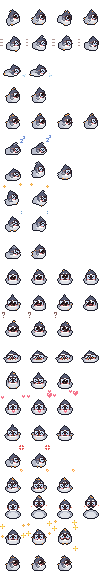
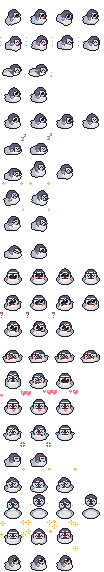
fix: CI-safe penguin tests (no scipy) and a smooth penguin back and round pixel head
- test_draw_penguin used scipy.ndimage, which CI does not install (tools/requirements.txt):
  the test job failed on CI while passing locally, which stopped the v0.5.7 release.
  Replaced with small numpy helpers and added a guard against importing scipy in tools.
- kinder penguin: no spiky down on the back (only the baby chick keeps it)
- pixel penguin: no head tuft — at pixel size it turned into a horn with an orange tip

Claude-Session: https://claude.ai/code/session_01QTKFeeLBUNBZhj6R6jJCZF

diff --git a/tools/test_draw_penguin.py b/tools/test_draw_penguin.py
@@ -183,6 +183,73 @@ def test_a_plump_round_penguin_with_a_big_round_belly(out, st, anim):
     assert belly >= (0.62 if anim == "sit_front" else 0.5), (st, anim, round(belly, 2))
 
 
+# ---- 작은 형태 연산 (numpy만 — CI에는 scipy가 없다, requirements.txt) ----
+_CROSS = ((0, 0), (1, 0), (-1, 0), (0, 1), (0, -1))
+_SQUARE = tuple((dy, dx) for dy in (-1, 0, 1) for dx in (-1, 0, 1))
+
+
+def _shift(m, dy, dx):
+    """m을 (dy, dx)만큼 민 것 (밖은 False)."""
+    out = np.zeros_like(m)
+    h, w = m.shape
+    out[max(dy, 0): h + min(dy, 0), max(dx, 0): w + min(dx, 0)] = m[max(-dy, 0): h + min(-dy, 0), max(-dx, 0): w + min(-dx, 0)]
+    return out
+
+
+def dilate(m, iterations=1, offsets=_CROSS):
+    """이진 팽창 (기본: 4-이웃 십자 — scipy binary_dilation 기본값과 같다)."""
+    m = np.asarray(m, dtype=bool)
+    for _ in range(iterations):
+        m = np.logical_or.reduce([_shift(m, dy, dx) for dy, dx in offsets])
+    return m
+
+
+def erode(m, offsets=_CROSS):
+    """이진 침식 (밖은 False로 본다)."""
+    m = np.asarray(m, dtype=bool)
+    return np.logical_and.reduce([_shift(m, -dy, -dx) for dy, dx in offsets])
+
+
+def open3(m):
+    """3×3 네모로 열기 (침식 뒤 팽창)."""
+    return dilate(erode(m, _SQUARE), 1, _SQUARE)
+
+
+def label(m):
+    """4-이웃으로 이어진 덩어리에 1..n 번호: (번호 배열, n)."""
+    m = np.asarray(m, dtype=bool)
+    lab = np.zeros(m.shape, dtype=int)
+    n = 0
+    for y, x in zip(*np.nonzero(m)):
+        if lab[y, x]:
+            continue
+        n += 1
+        lab[y, x] = n
+        stack = [(y, x)]
+        while stack:
+            cy, cx = stack.pop()
+            for dy, dx in _CROSS[1:]:
+                ny, nx = cy + dy, cx + dx
+                if 0 <= ny < m.shape[0] and 0 <= nx < m.shape[1] and m[ny, nx] and not lab[ny, nx]:
+                    lab[ny, nx] = n
+                    stack.append((ny, nx))
+    return lab, n
+
+
+def test_morphology_helpers():
+    m = np.zeros((7, 7), dtype=bool)
+    m[3, 3] = True
+    assert dilate(m).sum() == 5 and dilate(m, 2).sum() == 13
+    sq = np.zeros((7, 7), dtype=bool)
+    sq[1:4, 1:4] = True
+    sq[5, 5] = True
+    want = np.zeros((7, 7), dtype=bool)
+    want[1:4, 1:4] = True
+    assert (open3(sq) == want).all()
+    lab, n = label(sq)
+    assert n == 2 and lab[5, 5] != lab[1, 1]
+
+
 # ---- 동글 안경 + "안경 번쩍" ----
 PIXEL = ROOT / "ui" / "pets_pixel" / "penguin"
 
@@ -196,12 +263,11 @@ def pixel_frame(st, anim, i):
 
 def lens_and_rim(im):
     """(렌즈 색 칸 수, 렌즈 둘레(렌즈에서 3칸 안)의 짙은 테 칸 수, 렌즈 가운데 y / 실루엣 높이)."""
-    from scipy import ndimage
     a = np.asarray(im.convert("RGBA")).astype(int)
     op = a[..., 3] > 200
     lens = (np.abs(a[..., :3] - np.array(draw_penguin.LENS)).max(axis=2) <= 6) & op
     rim = (a[..., :3].mean(axis=2) < 120) & op
-    near = ndimage.binary_dilation(lens, iterations=3) & ~lens
+    near = dilate(lens, 3) & ~lens
     ys = np.nonzero(op.any(axis=1))[0]
     ly = np.nonzero(lens)[0].mean() if lens.any() else 999
     return int(lens.sum()), int((rim & near).sum()), (ly - ys[0]) / (ys[-1] - ys[0] + 1)
@@ -262,7 +328,6 @@ def _keyed(tabs, rgb):
 
 def test_round_lens_flash_keys_the_marked_lens_alpha(out):
     """동글 그림: 렌즈 둥근 자리(안의 눈까지)만 알파 254로 표시돼 있고, #lens-flash 필터는 알파 254만 골라 하얗게 덮는다."""
-    from scipy import ndimage
     f, tabs = _flash_tables("A", "lens-flash")
     assert f.index('operator="erode" radius="1"') < f.index('operator="dilate" radius="1"')
     assert [k for k, v in enumerate(tabs["A"]) if v == 1] == [draw_penguin.LENS_ALPHA] and len(tabs["A"]) == 256
@@ -275,7 +340,7 @@ def test_round_lens_flash_keys_the_marked_lens_alpha(out):
             im = frame(out, st, anim, 0)
             a = np.asarray(im.convert("RGBA")).astype(int)
             # 필터처럼 열림(1px)으로 외톨이 점을 지운다 (어른 256칸 시트를 128로 줄이면 외곽선에 254가 생길 수 있다)
-            key = ndimage.binary_opening(a[..., 3] == draw_penguin.LENS_ALPHA, structure=np.ones((3, 3)))
+            key = open3(a[..., 3] == draw_penguin.LENS_ALPHA)
             lens = (np.abs(a[..., :3] - np.array(draw_penguin.LENS)).max(axis=2) <= 6) & (a[..., 3] > 200)
             assert key.sum() >= lens.sum() + 10, (st, anim)  # 렌즈 색 칸 + 눈·반짝까지
             dark = key & (a[..., :3].mean(axis=2) < 90)
@@ -287,7 +352,7 @@ def test_round_lens_flash_keys_the_marked_lens_alpha(out):
         for anim in ("walk", "roll", "belly", "heart", "level_up", "sleep"):
             for c in range(2):
                 a = np.asarray(frame(out, st, anim, c).convert("RGBA")).astype(int)
-                lab, n = ndimage.label(a[..., 3] == draw_penguin.LENS_ALPHA)
+                lab, n = label(a[..., 3] == draw_penguin.LENS_ALPHA)
                 sizes = [int((lab == j).sum()) for j in range(1, n + 1)]
                 assert 1 <= n <= 3 and min(sizes) >= 20, (st, anim, c, sizes)
 
@@ -306,7 +371,6 @@ def test_lens_flash_filter_keys_only_the_lens_colour():
 @pytest.mark.parametrize("st", STAGES)
 def test_only_the_glasses_wear_the_lens_colour(out, st):
     """도트 필터가 렌즈 말고는 하얗게 만들지 않게: 필터 표에 걸리는 칸은 렌즈 덩어리 바로 곁뿐 (배·발·얼음 가루·외곽선 섞인 칸은 몇 점 이하)."""
-    from scipy import ndimage
     _, tabs = _flash_tables()
     keyed = {}
     for anim in ("sit_front", "walk", "roll", "belly", "eat", "sleep", "heart"):
@@ -319,7 +383,7 @@ def test_only_the_glasses_wear_the_lens_colour(out, st):
                 t = np.array(tabs["RGB"[ch]])
                 hit &= t[np.minimum(len(t) - 1, (rgb[..., ch] / 255 * len(t)).astype(int))] == 1
             core = (np.abs(rgb - np.array(draw_penguin.LENS)).max(axis=2) <= 6) & op
-            stray = hit & ~ndimage.binary_dilation(core, iterations=2)
+            stray = hit & ~dilate(core, 2)
             assert hit.sum() >= 3, (kind, st, anim)
             keyed[(kind, anim)] = int(stray.sum())
     assert max(keyed.values()) <= 4, keyed
@@ -367,3 +431,44 @@ console.log(JSON.stringify(added));
 """ % (fx, line.strip())
     out = subprocess.run(["node", "-e", script], capture_output=True, text=True, check=True).stdout
     assert json.loads(out) == ["glasses-flash", "glasses-flash", "glasses-flash"]
+
+
+# ---- 매끈한 등 (사용자: 2단계부터 등에 털인지 뿔인지 뾰족뾰족) ----
+
+def test_only_the_baby_keeps_the_spiky_down_on_its_body():
+    """2단계(유아) 등은 매끈하게 (사용자: 등에 털인지 뿔인지 뾰족뾰족) — 삐죽 솜털은 아기 병아리만."""
+    assert [lvl for lvl, st in draw_penguin.PG_STAGE.items() if st["fuzz"]] == [0]
+
+
+@pytest.mark.parametrize("st", STAGES)
+@pytest.mark.parametrize("anim", ["idle", "walk", "look", "sit_front"])  # 잠(sleep)은 머리 위에 z가 있다
+def test_pixel_head_has_no_horn(st, anim):
+    """도트 그림: 정수리 솜털 한 가닥이 작은 칸에선 뾰족한 뿔(끝에 주황 점)이 된다 → 도트엔 정수리 솜털이 없다.
+    머리 꼭대기 줄이 한두 칸짜리 뾰족 끝이 아니고, 위 1/5에 부리·발 주황이 없다."""
+    for i in (0, 1):
+        im = pixel_frame(st, anim, i)
+        a = alpha(im)
+        ys = np.nonzero(a.any(axis=1))[0]
+        # 뾰족 뿔이면 위 세 줄이 한두 칸씩 (동그란 머리는 위 셋째 줄이 넓다)
+        assert a[ys[0] + 2].sum() >= 5, (st, anim, i, [int(a[ys[0] + k].sum()) for k in range(3)])
+        band = im.crop((0, ys[0], im.width, ys[0] + (ys[-1] - ys[0]) // 5))
+        assert count_near(band, [draw_penguin.FEET], 30) == 0, (st, anim, i)
+
+
+def _back_bumps(im):
+    """옆모습 등 쪽(왼쪽) 윤곽: 줄마다 가장 왼쪽 칸 x. 위에서 아래로 그 x가 앞뒤 줄보다 2칸 넘게 튀어나온(작은) 곳 수 + 아래 1/4이 몸통보다 왼쪽으로 튀어나온 칸 수."""
+    a = alpha(im)
+    rows = [np.nonzero(r)[0].min() for r in a if r.any()]
+    n = len(rows)
+    spikes = sum(1 for i in range(1, n - 1) if rows[i] < min(rows[i - 1], rows[i + 1]) - 2)
+    mid = min(rows[int(n * 0.35): int(n * 0.75)])
+    tail = max(0, mid - min(rows[int(n * 0.75):]))
+    return spikes, tail
+
+
+@pytest.mark.parametrize("st", ["kinder", "child", "teenager", "adult"])
+@pytest.mark.parametrize("anim", ["idle", "walk", "look"])
+def test_the_back_is_smooth_without_spikes_or_a_pointy_tail(out, st, anim):
+    for i in (0, 1):
+        spikes, tail = _back_bumps(frame(out, st, anim, i))
+        assert spikes == 0 and tail <= 2, (st, anim, i, spikes, tail)

diff --git a/tools/draw_pixel.py b/tools/draw_pixel.py
@@ -121,7 +121,7 @@ _OWNERS = {  # 바꿔 끼우는 이름 → 원래 있는 모듈
     dd: ("melon_bubble_fx", "broc_bubble_fx", "grape_bubble_fx", "FOOD_BUBBLE", "wave_fx", "dust_fx", "impact_fx"),
     ds: ("ice_bubble_fx",),
     dbird: ("seeds_bubble_fx",),
-    dpeng: ("shrimp_bubble_fx", "GLASS"),
+    dpeng: ("shrimp_bubble_fx", "GLASS", "PG_STAGE"),
     dsq: ("acorn_bubble_fx",),
     dred: ("bamboo_bubble_fx",),
 }
@@ -974,6 +974,8 @@ _PATCH["neck_geometry"] = neck_geometry
 _PATCH["acorn_bubble_fx"] = _bubble_fn("acorn")  # 다람쥐 🌰
 # 펭귄 안경: 칸이 적어 테가 눈에 붙으면 까만 덩어리가 된다 → 렌즈를 키워 눈과 테 사이에 렌즈 칸을 남기고, 앞모습 다리는 빼고, 반짝은 한 칸 점
 _PATCH["GLASS"] = dict(dpeng.GLASS, r=0.54, dx=0.52, arms=False, glint="dot", alpha_key=False)  # 반투명 없음: 번쩍은 렌즈 색으로 고른다
+# 펭귄 정수리 솜털: 가는 가닥이 작은 칸에선 뾰족한 뿔(끝에 주황 점)이 된다 → 도트엔 정수리 솜털 없이 동그란 머리
+_PATCH["PG_STAGE"] = {lvl: dict(st, fluff=0) for lvl, st in dpeng.PG_STAGE.items()}
 
 
 def _anims(sp):

diff --git a/tools/draw_penguin.py b/tools/draw_penguin.py
@@ -54,7 +54,7 @@ SHRIMP, SHRIMP_DARK = (255, 140, 110), (222, 96, 80)
 #               chub: 동글 공 몸 (가로, 세로) 배율 — 공통 torso(아기 길쭉)를 쓰지 않고 모든 단계 포동포동 (머리 큰 아기는 몸을 더 넓게)
 PG_STAGE = {
     0: dict(chick=True, fluff=3, fuzz=True, flip=0.78, tie=False, chub=(1.3, 1.0)),
-    1: dict(chick=True, fluff=1, fuzz=True, flip=0.86, tie=False, chub=(1.2, 1.02)),
+    1: dict(chick=True, fluff=1, fuzz=False, flip=0.86, tie=False, chub=(1.2, 1.02)),  # 등 솜털 세모는 아기만 (사용자: 등이 뾰족뾰족)
     2: dict(chick=False, fluff=1, fuzz=False, flip=0.94, tie=False, chub=(1.17, 0.97)),
     3: dict(chick=False, fluff=0, fuzz=False, flip=1.0, tie=False, chub=(1.0, 1.0)),
     4: dict(chick=False, fluff=0, fuzz=False, flip=1.04, tie=True, chub=(0.98, 0.97)),

diff --git a/tools/test_nightcap.py b/tools/test_nightcap.py
@@ -405,3 +405,11 @@ def test_preview_has_no_old_head_finder():
     """고치기 전 계산(before 모드)과 그 scipy 의존은 없어졌다 — CI에 없는 패키지를 부르지 않는다."""
     src = Path(pn.__file__).read_text(encoding="utf-8")
     assert "scipy" not in src and "old_head_top" not in src
+
+
+def test_no_tool_or_test_imports_scipy():
+    """CI는 requirements.txt(numpy·pillow·pytest)만 깐다 — scipy를 부르면 로컬에선 되고 CI에선 깨진다 (v0.5.7)."""
+    tools = Path(__file__).resolve().parent
+    bad = [f.name for f in tools.glob("*.py") if f.name != Path(__file__).name
+           and any(ln.strip().startswith(("import scipy", "from scipy")) for ln in f.read_text(encoding="utf-8").splitlines())]
+    assert bad == []

diff --git a/docs/releases/v0.5.8.md b/docs/releases/v0.5.8.md
@@ -3,6 +3,7 @@
 > 0.5.6에서 바로 올려도 돼요 — 0.5.7의 바뀐 점도 모두 들어 있어요. 친구가 0.5.6이어도 함께 놀 수 있어요 (새 그림은 친구도 업데이트하면 친구 화면에서도 보여요).
 
 - **🐧 펭귄:** 배가 볼록하고 동글동글한 포동포동 펭귄으로 다시 그렸어요. 이제 커다란 동그란 안경도 썼어요! 누르거나 잡으면, 그리고 커서를 잡으러 왔을 때나 친구와 놀 때, 가끔은 혼자 뒤뚱거리다가도 안경이 반짝 ✦ 하고 하얗게 번쩍해요.
+- **🐧 펭귄 등·머리:** 유아 펭귄 등에 뾰족하게 삐져나오던 솜털을 없애 매끈하게 했어요. 도트 펭귄 정수리에 뿔처럼 솟던 털도 없애고 동그란 머리로 다듬었어요.
 - **🐿🐧 아기 다람쥐·아기 펭귄:** 너무 작아 보이던 아기 다람쥐와 아기 펭귄을 조금 키웠어요.
 - **🐾 레서판다:** 깜짝 놀랄 때 팔이 귀 끝까지 길게 늘어나던 모습을 고쳤어요. 이제 짤뚱한 두 팔을 볼 옆으로 번쩍 들고, 팔과 몸이 이음새 없이 하나로 이어져요. 들어 올렸을 때도 같아요.
 - **🐱 페르시안 고양이:** 옆모습 목 뒤로 튀어나오던 털을 정리하고, 앞모습 머리를 조금 작게 다듬었어요.
